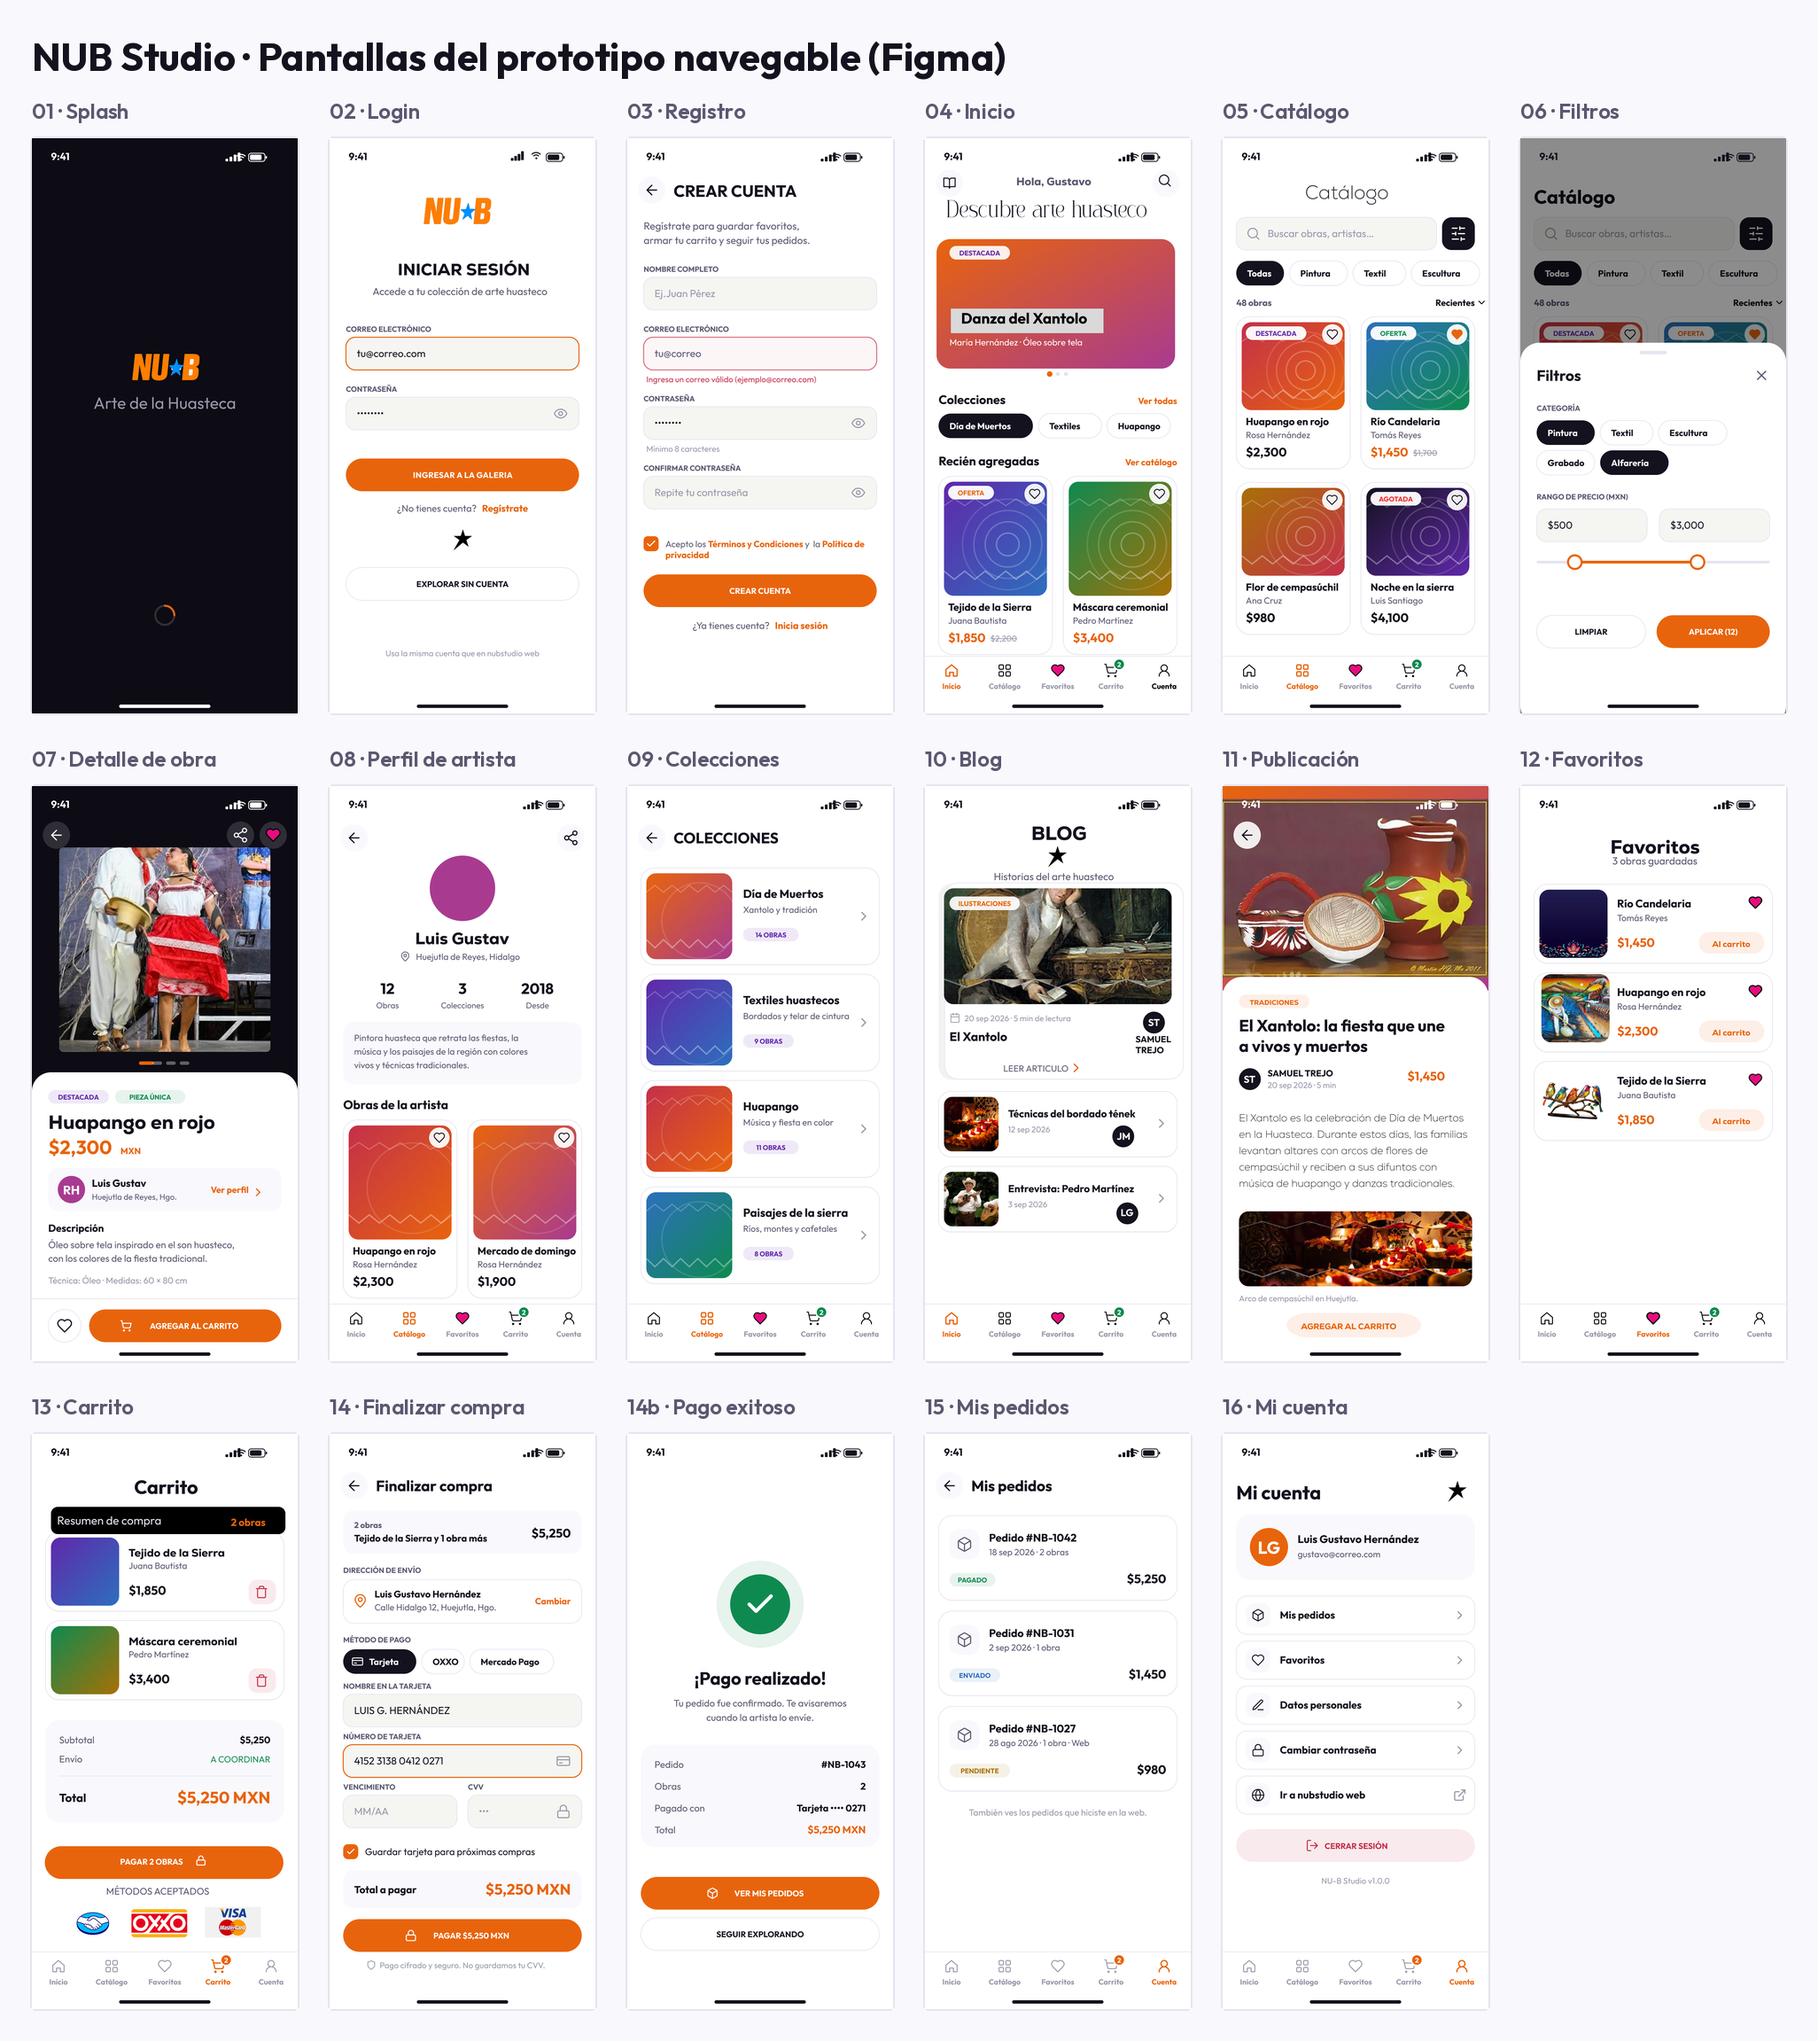
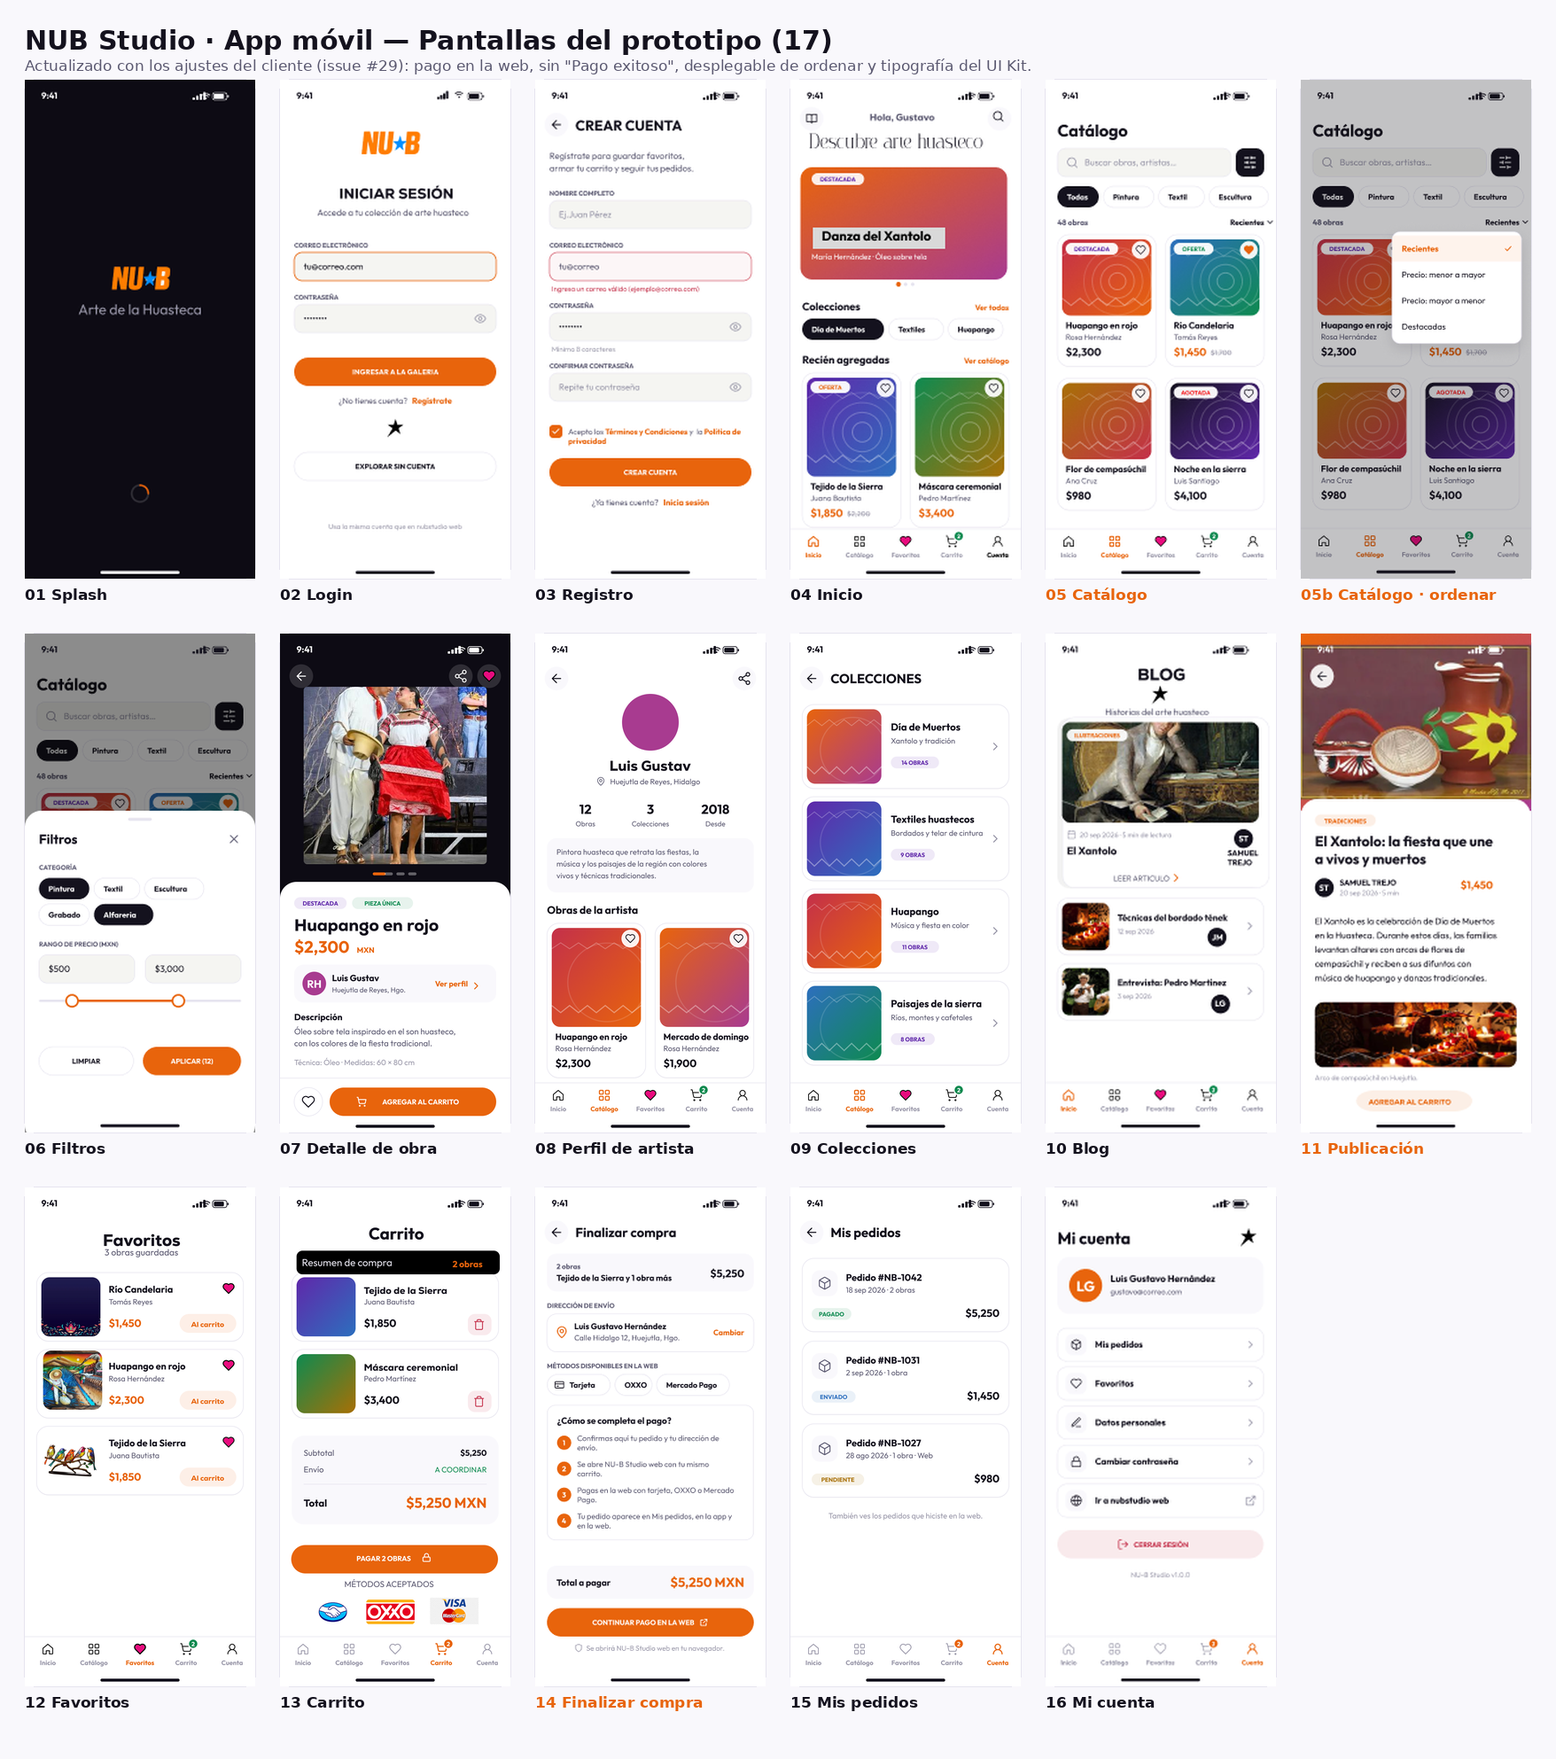
docs: aplicar ajustes del prototipo solicitados por el cliente (#29)
- Finalizar compra sin captura de tarjeta; redirige a la web para pagar
- Se elimina la pantalla Pago exitoso del flujo
- Tipografía alineada al UI Kit (Outfit) y desplegable de ordenar en Catálogo
- Capturas y flujo de navegación actualizados; observaciones del cliente en estado Aplicado

diff --git a/docs/prototipo/README.md b/docs/prototipo/README.md
@@ -4,37 +4,38 @@ Prototipo interactivo en Figma para validar el flujo de la app con el cliente an
 
 ## Enlace
 
-**[Abrir el prototipo en Figma](https://www.figma.com/proto/HIkgcsBOIqubrTEYmOn1HR/NUB-Studio-%E2%80%93-App-M%C3%B3vil.--Copy-?node-id=1-423&starting-point-node-id=1%3A423&scaling=min-zoom&content-scaling=fixed&show-proto-sidebar=1&page-id=0%3A1)**
+[Abrir el prototipo en Figma](https://www.figma.com/proto/mYbOVr3TLsQBILyMKYtkyS/NUB-Studio-%E2%80%93-App-M%C3%B3vil.?node-id=1-423&starting-point-node-id=1%3A423&scaling=min-zoom&content-scaling=fixed&show-proto-sidebar=1&page-id=0%3A1)
 
 - Punto de inicio: **Flujo principal** (empieza en el Splash).
 - Se navega tocando los botones como en el teléfono. También se puede abrir desde la app móvil de Figma.
 
 ## Pantallas
 
-![Pantallas del prototipo](pantallas_prototipo.png)
+Splash · Login · Registro · Inicio · Catálogo · Catálogo (ordenar) · Filtros · Detalle de obra · Perfil de artista · Colecciones · Blog · Publicación · Favoritos · Carrito · Finalizar compra · Mis pedidos · Mi cuenta.
 
-Splash · Login · Registro · Inicio · Catálogo · Filtros · Detalle de obra · Perfil de artista · Colecciones · Blog · Publicación · Favoritos · Carrito · Finalizar compra · Pago exitoso · Mis pedidos · Mi cuenta.
+![Pantallas del prototipo](pantallas_prototipo.png)
 
 ## Flujo de navegación
 
-![Flujo de navegación](flujo_navegacion.png)
-
 | Flujo | Recorrido |
-|---|---|
+| --- | --- |
 | Primer ingreso | Splash → Login → Registro → Inicio |
-| Exploración | Inicio → Catálogo → Filtros → Catálogo → Detalle de obra → Perfil de artista |
-| Compra | Detalle de obra → Agregar al carrito → Carrito → Finalizar compra → Pago exitoso → Mis pedidos |
+| Exploración | Inicio → Catálogo → Ordenar / Filtros → Catálogo → Detalle de obra → Perfil de artista |
+| Compra | Detalle de obra → Agregar al carrito → Carrito → Finalizar compra → **Pago en la plataforma web** → Mis pedidos |
 | Contenido | Inicio → Blog → Publicación |
 | Cuenta | Mi cuenta → Mis pedidos / Favoritos / Cerrar sesión → Login |
 
 - **Rutas públicas** (sin iniciar sesión): Inicio, Catálogo, Filtros, Detalle de obra, Perfil de artista, Colecciones, Blog y Publicación.
-- **Rutas con sesión:** Favoritos, Carrito, Finalizar compra, Pago exitoso, Mis pedidos y Mi cuenta.
+- **Rutas con sesión:** Favoritos, Carrito, Finalizar compra, Mis pedidos y Mi cuenta.
 - La barra inferior (Inicio, Catálogo, Favoritos, Carrito, Cuenta) y la flecha de regresar funcionan en todas las pantallas que las tienen.
+- El pago **no se realiza dentro de la app** (HU-09 y [alcance del MVP](../ALCANCE_MVP.md)): en **Finalizar compra** el usuario confirma su pedido y el botón **CONTINUAR PAGO EN LA WEB** abre [nub-studio-front.vercel.app](https://nub-studio-front.vercel.app) con el mismo carrito. Por eso se eliminó la pantalla **Pago exitoso**: la confirmación del pago la muestra la web.
+
+![Flujo de navegación](flujo_navegacion.png)
 
 ## Validación con el cliente
 
 | Dato | Detalle |
-|---|---|
+| --- | --- |
 | Fecha | Jueves 24 de septiembre de 2026, 8:00 p. m. aprox. |
 | Modalidad | Llamada |
 | Participantes | Samuel Trejo (cliente), Luis Gustavo Hernández, Mishel Govea y Soraida Medina (desarrolladores) |
@@ -42,9 +43,16 @@ Splash · Login · Registro · Inicio · Catálogo · Filtros · Detalle de obra
 
 ### Observaciones del cliente
 
-| # | Observación | Estado |
-|---|---|---|
-| 1 | Pulir los tipos de letra (aplicar las tipografías del UI Kit de forma consistente en todas las pantallas). | Pendiente |
-| 2 | Ajustar los menús desplegables. | Pendiente |
+| # | Observación | Estado | Cómo se aplicó |
+| --- | --- | --- | --- |
+| 1 | Pulir los tipos de letra (aplicar las tipografías del UI Kit de forma consistente en todas las pantallas). | **Aplicado** | Los textos que usaban fuentes fuera del UI Kit (Nexa Extra Light en el título de Catálogo y en el cuerpo de la publicación del blog) se cambiaron a **Outfit**, y los tamaños fuera de escala (14.4, 25.2) se ajustaron a la escala del UI Kit. Los precios se mantienen en Outfit Bold en todas las pantallas. |
+| 2 | Ajustar los menús desplegables. | **Aplicado** | Se diseñó el desplegable **Ordenar** del catálogo abierto (Recientes, Precio: menor a mayor, Precio: mayor a menor, Destacadas), con la opción elegida resaltada, y se conectó en el prototipo. |
 
-Los ajustes se aplicarán en Figma antes de iniciar el desarrollo de las pantallas.
+### Ajustes de alcance
+
+| Cambio | Motivo |
+| --- | --- |
+| **Finalizar compra** ya no captura datos de tarjeta: muestra el resumen del pedido, la dirección de envío, los métodos disponibles en la web y los pasos para completar el pago. | El pago se completa en la plataforma web (HU-09). |
+| Se eliminó la pantalla **Pago exitoso** del flujo de la app. | La confirmación del pago ocurre en la web. |
+
+Los ajustes se aplicaron en Figma antes de iniciar el desarrollo de las pantallas ([#29](https://github.com/Nub-Studio-Uthh/Nub-studio-movil/issues/29)).
